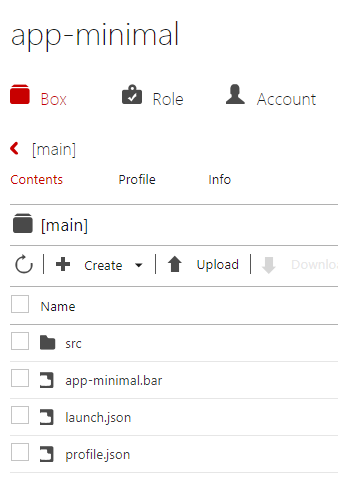
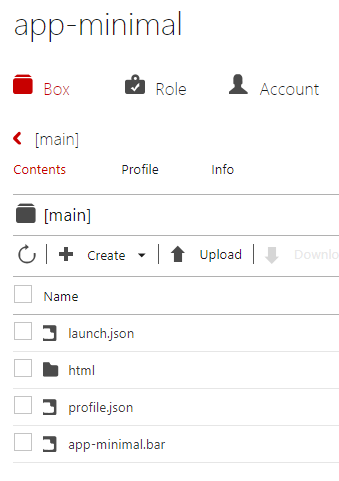
Update library

diff --git a/src/html/Engine/getAppAuthToken.js b/src/html/Engine/getAppAuthToken.js
@@ -5,7 +5,19 @@ function(request){
     var appCellUrl = [ rootUrl, appCellName ].join("/");
 
     var refererUrl = request["headers"]["referer"];
-    if (refererUrl.indexOf(appCellUrl) != 0) {
+    /*
+     * Usually only your App's URL is enough.
+     * However, if you can allow other Apps to call your function to get Authentication Token.
+     */
+    var refererUrlList = [appCellUrl];
+    var urlAllowed = false;
+    for (i = 0; i < refererUrlList.length; i++) {
+        if (refererUrl && refererUrl.indexOf(refererUrlList[i]) == 0) {
+            urlAllowed = true;
+            break;
+        }
+    }
+    if (!urlAllowed) {
         return {
             status : 500,
             headers : {"Content-Type":"application/json"},

diff --git a/doc/HowToDeploy.md b/doc/HowToDeploy.md
@@ -48,6 +48,10 @@ You also need to mention that you want an app cell, too.
                      "ios": "MinimalApp:"
                   }
                 }
+    1. getAppAuthToken.js
+    Engine script that get App Authentication Token.  
+    Replace "*** with proper information.  
+    App developer should set the Engine Service to all exec (not all read) to avoid showing the ID/Password in this file.  
 
     1. app.js  
     Internal APIs in common.js or common_personium.js refers to the cell URL to perform all sorts of operations.  
@@ -63,7 +67,9 @@ You also need to mention that you want an app cell, too.
 We recommend 7-zip for Windows environment.    
 Example: app-minimal.bar  
 1. Upload files (see the diagram below) to the app cell's main box using the CellManager.  
+Unforntunately, the Cell Manager currently only support uploading one file at a time.  
 ![Main box of MinimalApp](MinimalApp_MainBox.png)  
+1. 
 
 ## How to Install the app  
 You can install by either of the following ways.  
